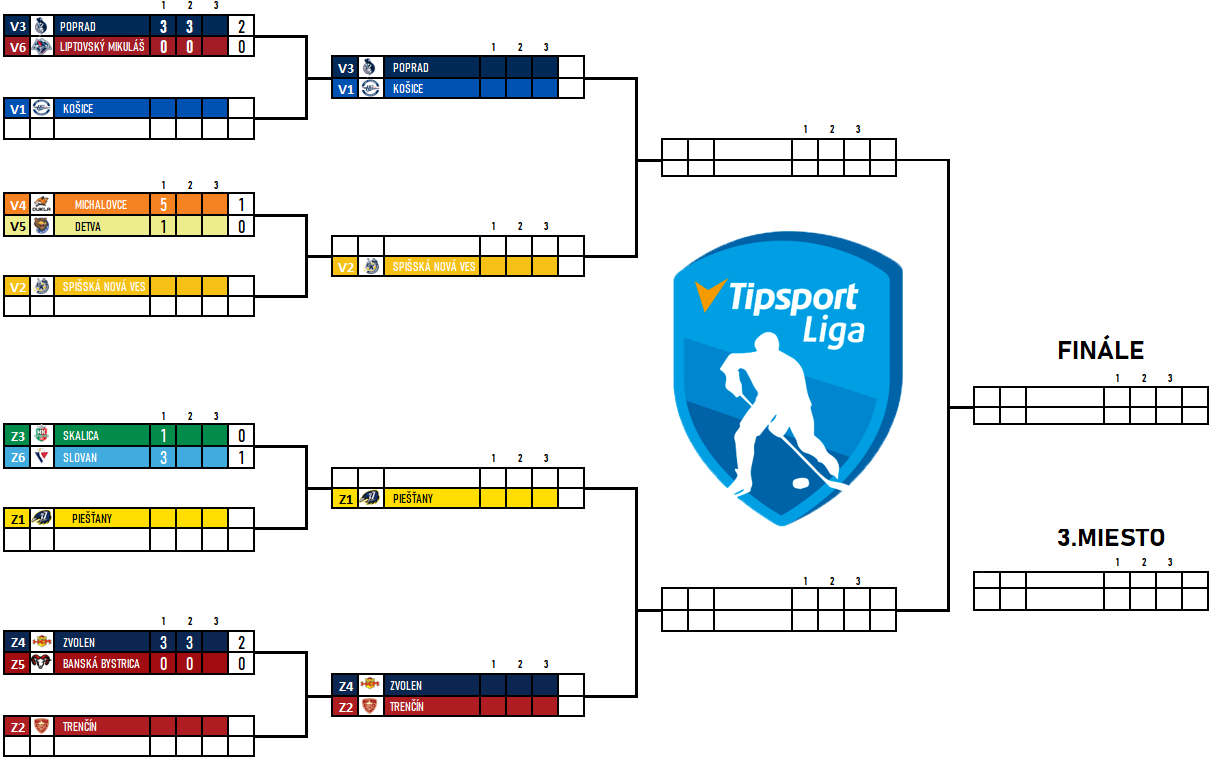
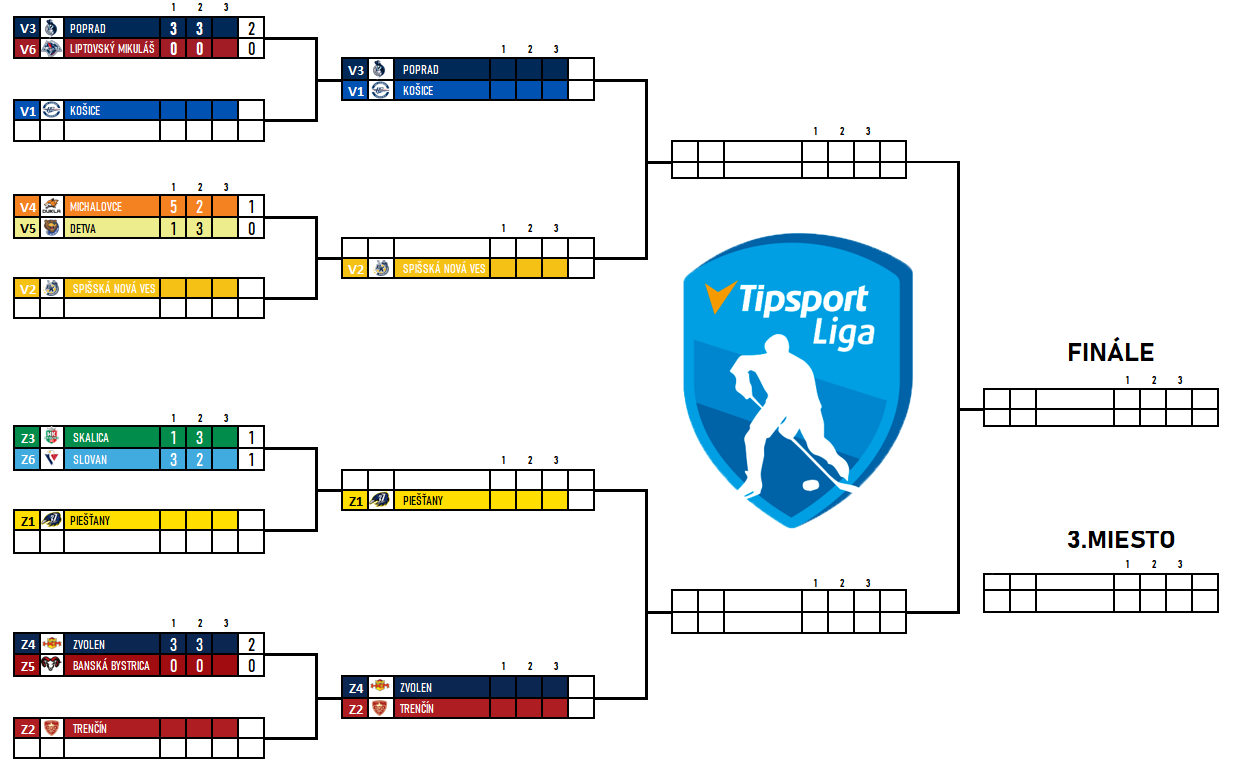
ss

diff --git a/play-off-rozpis.html b/play-off-rozpis.html
@@ -495,17 +495,17 @@
         <td class="naplanovane" class="datum">2.zápas 5.7.2020</td>
         <td class="logo"><img src="images/detva.png" height="19"></td>
         <td class="club-name"><a href="https://www.hockeyarena.net/sk/index.php?p=public_team_info_basic.php&team_id=58552" style="text-decoration-style: none; color: black;">Detva</a></td>
-        <td class="match"><b>:</b></td>
+        <td class="match"><b>3:2</b></td>
         <td class="logo"><img src="images/michalovce.png" height="19"></td>
         <td class="club-name"><a href="https://www.hockeyarena.net/sk/index.php?p=public_team_info_basic.php&team_id=29167" style="text-decoration-style: none; color: black;">Michalovce</a></td>
       </tr>
       <tr>
         <td class="datum">3.zápas 8.7.2020</td>
-        <td class="logo"></td>
-        <td class="club-name"></td>
-        <td class="match"><b></b></td>
-        <td class="logo"></td>
-        <td class="club-name"></td>
+        <td class="logo"><img src="images/michalovce.png" height="19"></td>
+        <td class="club-name"><a href="https://www.hockeyarena.net/sk/index.php?p=public_team_info_basic.php&team_id=29167" style="text-decoration-style: none; color: black;">Michalovce</a></td>
+        <td class="match"><b>:</b></td>
+        <td class="logo"><img src="images/detva.png" height="19"></td>
+        <td class="club-name"><a href="https://www.hockeyarena.net/sk/index.php?p=public_team_info_basic.php&team_id=58552" style="text-decoration-style: none; color: black;">Detva</a></td>
       </tr>
 
       <tr>
@@ -531,17 +531,17 @@
         <td class="naplanovane" class="datum">2.zápas 5.7.2020</td>
         <td class="logo"><img src="images/slovan.png" height="19"></td>
         <td class="club-name"><a href="https://www.hockeyarena.net/sk/index.php?p=public_team_info_basic.php&team_id=37887" style="text-decoration-style: none; color: black;">Slovan Bratislava</a></td>
-        <td class="match"><b>:</b></td>
+        <td class="match"><b>2:3</b></td>
         <td class="logo"><img src="images/Skalica.png" height="19"></td>
         <td class="club-name"><a href="https://www.hockeyarena.net/sk/index.php?p=public_team_info_basic.php&team_id=2991" style="text-decoration-style: none; color: black;">Skalica</a></td>
       </tr>
       <tr>
         <td class="datum">3.zápas 8.7.2020</td>
-        <td class="logo"></td>
-        <td class="club-name"></td>
+        <td class="logo"><img src="images/Skalica.png" height="19"></td>
+        <td class="club-name"><a href="https://www.hockeyarena.net/sk/index.php?p=public_team_info_basic.php&team_id=2991" style="text-decoration-style: none; color: black;">Skalica</a></td>
         <td class="match"><b></b></td>
-        <td class="logo"></td>
-        <td class="club-name"></td>
+       <td class="logo"><img src="images/slovan.png" height="19"></td>
+        <td class="club-name"><a href="https://www.hockeyarena.net/sk/index.php?p=public_team_info_basic.php&team_id=37887" style="text-decoration-style: none; color: black;">Slovan Bratislava</a></td>
       </tr>
        <tr>
         <td style="border-bottom: 4px solid black;" ></td>
